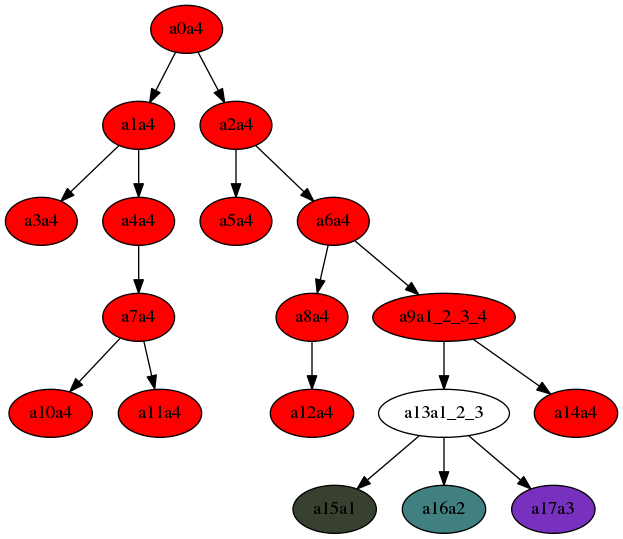
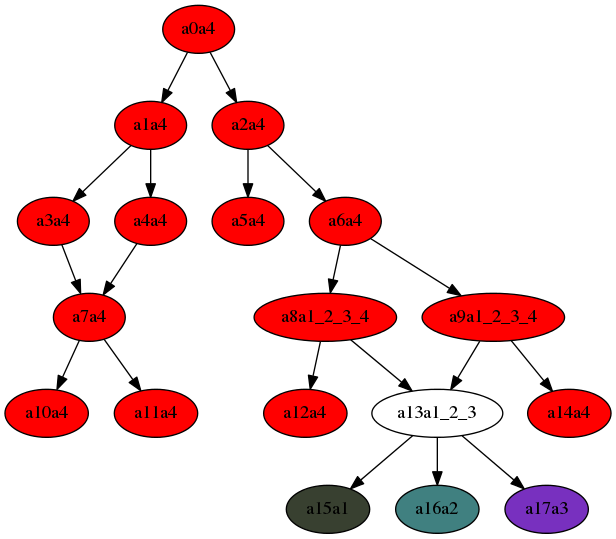
Add fitch for cactus

diff --git a/Graph.py b/Graph.py
@@ -3,11 +3,13 @@ from collections import Counter
 
 class Graph:
     def __init__(self, vertex=0):
+        self.count_loop = -1
         if vertex > 0:
             self.colors = [-1] * vertex
             self.data = []
             self.inverse_data = []
             self.R = []
+            self.start_loop = [0] * vertex
             for i in range(vertex):
                 self.data.append([])
                 self.inverse_data.append([])
@@ -76,7 +78,11 @@ class Graph:
             f.write(str(v) + "->" + str(t) + ";\n")
             self.write_dfs(t, f, used)
 
-    def write_fitch_step1(self, v, f):
+    def write_fitch_step1(self, v, f, used):
+        if used[v] == -1:
+            used[v] = 1
+        else:
+            return
         colour_v = self.get_color(v)
         label_v = self.get_label(v)
         if colour_v != "":
@@ -85,7 +91,7 @@ class Graph:
         for t in self.data[v]:
             label_t = self.get_label(t)
             f.write("a" + str(v) + label_v + "->" + "a" + str(t) + label_t + ";\n")
-            self.write_fitch_step1(t, f)
+            self.write_fitch_step1(t, f, used)
 
     def is_tree(self):
         used = [False] * len(self.data)
@@ -95,52 +101,84 @@ class Graph:
                 return False
         return True
 
+    def count_colours(self, counter):
+        res = 0
+        for number, count in counter.items():
+            if number == 1:
+                res += count
+            else:
+                res += 1
+        return res
+
     def fitch(self):
-        self.fitch_step1(self.root)
+        self.fitch_step1(self.root,[-1] * len(self.colors))
         self.fitch_step2(self.root, self.root)
 
-    def fitch_step1(self, v):
+    def fitch_step1(self, v, used):
+        if used[v] == -1:
+            used[v] = 1
+        else:
+            return
         if len(self.data[v]) == 0:
             self.R[v] = {self.colors[v]: 1}
             return
         for k in self.data[v]:
-            self.fitch_step1(k)
+            self.fitch_step1(k, used)
 
         intersection = {}
         has_leaf = set()
+        diff_counter = {}
         # intersection = Counter()
         for k in self.data[v]:
-            for ch, count in self.R[k].items():
+            for colour, count in self.R[k].items():
                 if len(self.inverse_data[k]) > 1:
-                    count = -1
-                if ch in intersection:
-                    if count == 1:
-                        if not ch in has_leaf:
-                            has_leaf.add(ch)
-                            intersection[ch] = 1
-                        else:
-                            intersection[ch] += 1
+                    if self.start_loop[k] == 0:
+                        self.count_loop -= 1
+                        count = self.count_loop
+                        self.start_loop[k] = count
                     else:
-                        intersection[ch] = count
+                        count = self.start_loop[k]
+
+                if colour in diff_counter:
+                    diff_counter[colour].update([count])
                 else:
-                    intersection[ch] = count
+                    diff_counter[colour] = Counter([count])
+
+                if colour in intersection:
                     if count == 1:
-                        has_leaf.add(ch)
+                        if not colour in has_leaf:
+                            has_leaf.add(colour)
+                            intersection[colour] = 1
+                    else:
+                        intersection[colour] = count
+                else:
+                    intersection[colour] = count
+                    if count == 1:
+                        has_leaf.add(colour)
 
         # Ровно один цвет присутствует
-        if len(intersection) == 1:
-            self.R[v] = intersection
+        if len(diff_counter) == 1:
+            k = list(diff_counter.keys())[0]
+            if len(diff_counter[k]) > 1:
+                self.R[v] = {k: 1}
+            else:
+                self.R[v] = {k: diff_counter[k].most_common(1)[0]}
         else:
-            sort = sorted(intersection.items(), key=lambda x: abs(x[1]))
+            sort = sorted(diff_counter.items(), key=lambda x: self.count_colours(x[1]),reverse=True)
             most_common_colours = sort[0:2]
-            if most_common_colours[1][1] > 1:
+            if self.count_colours(most_common_colours[1][1]) > 1:
                 print("for vertex v=" + str(v) + "found more 2 colours" + str(most_common_colours))
                 exit(-1)
+
             # Есть два поддерева в которых один и тот же цвет
-            elif most_common_colours[0][1] > 1:
-                self.R[v] = {most_common_colours[0][0]}
+            elif self.count_colours(most_common_colours[0][1]) > 1:
+                self.R[v] = {most_common_colours[0][0]: 1}
             else:
-                self.R[v] = intersection
+                cur = {}
+                for col, counter in diff_counter.items():
+                    count = counter.most_common(1)[0][0]
+                    cur[col] = count
+                self.R[v] = cur
 
     def fitch_step2(self, v, parent):
         if self.colors[parent] in self.R[v]:

diff --git a/main.py b/main.py
@@ -14,7 +14,7 @@ def visualize(graph, name):
 def visualize_fitch_step1(graph, name):
     res = open(name + ".dot", "w")
     res.write("digraph " + name + "{\n")
-    graph.write_fitch_step1(graph.root, res)
+    graph.write_fitch_step1(graph.root, res, [-1] * len(graph.colors))
     res.write("}")
     res.close()
     os.system("dot " + name + ".dot -Tpng -o " + name + ".png")
@@ -41,10 +41,10 @@ def read_data(name_f):
 def main(name_f):
     graph = read_data(name_f)
     graph.find_root()
-    visualize(graph, "start_"+name_f)
+    visualize(graph, "start_" + name_f)
     graph.fitch()
-    visualize_fitch_step1(graph, "fitch_step_1_"+name_f)
-    visualize(graph, "fitch_res_"+name_f)
+    visualize_fitch_step1(graph, "fitch_step_1_" + name_f)
+    visualize(graph, "fitch_res_" + name_f)
 
 
 # main("input.txt")
